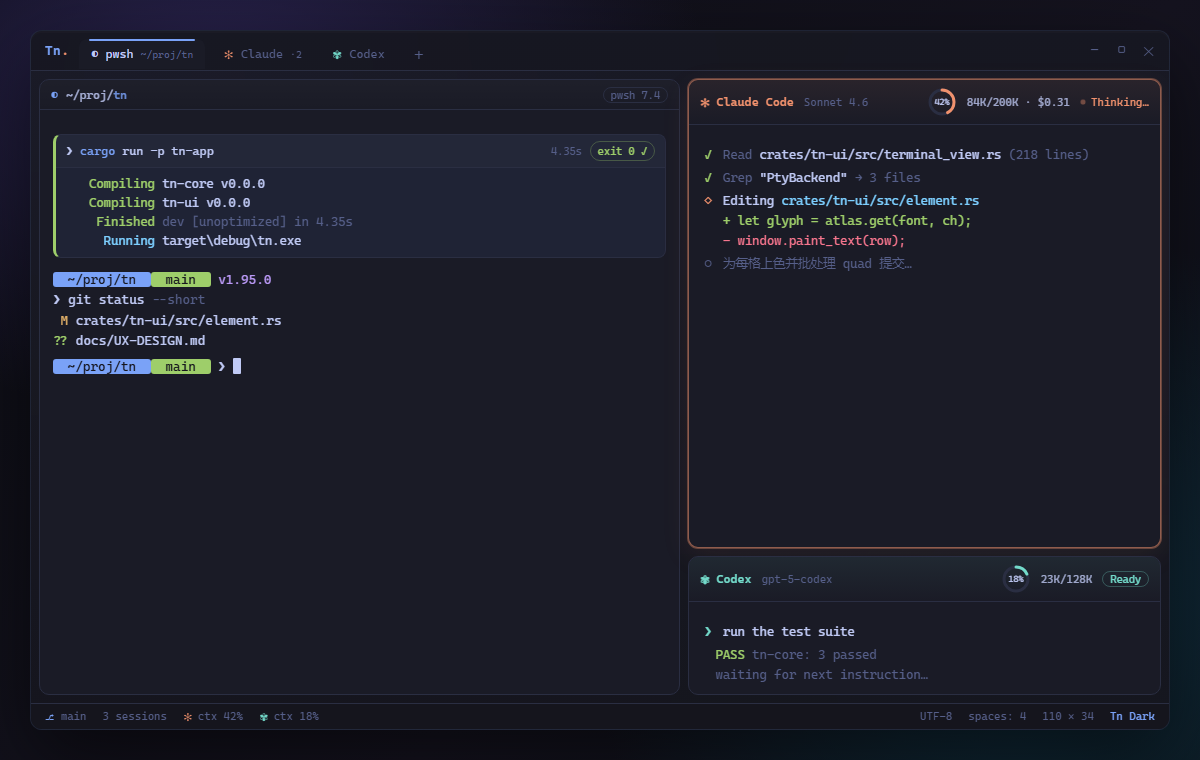
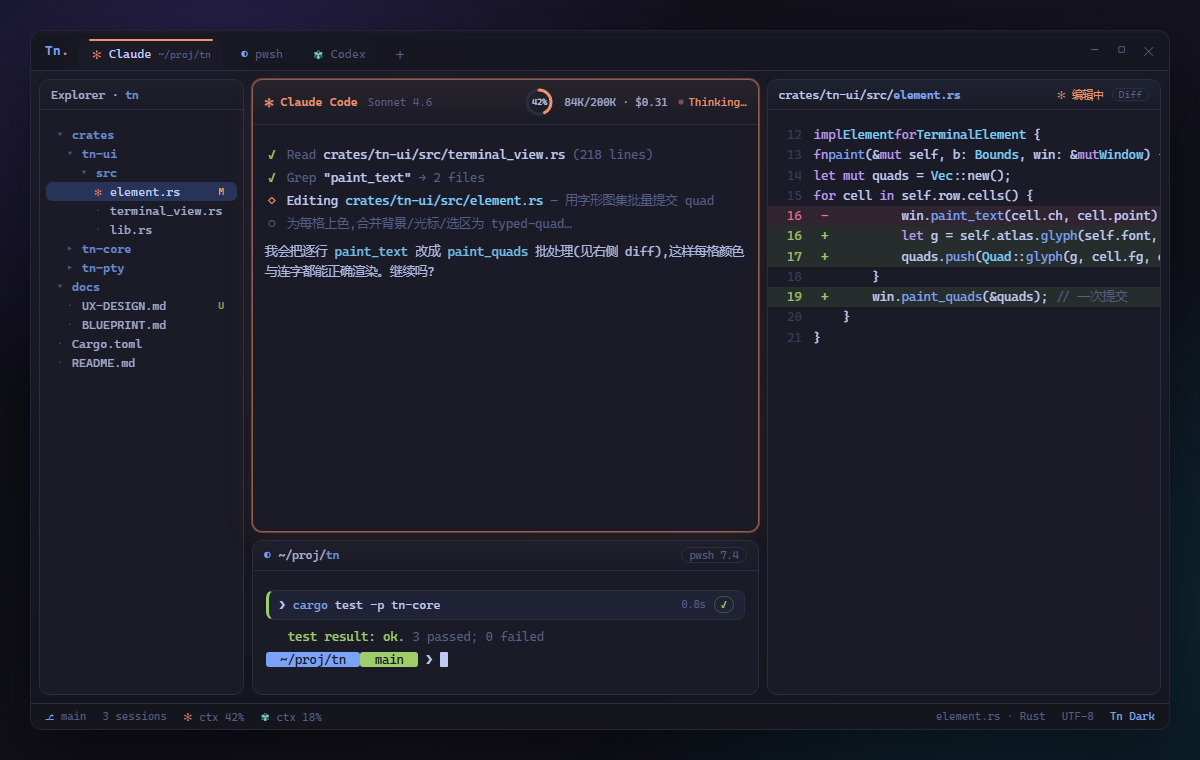
design: rebalance layout (smaller shell) + integrate file/diff viewer
Per feedback: the shell is rarely needed large, and we want to see files.
- New default vibe-coding layout: Explorer file tree | Claude (big) + small
  shell | Diff viewer. Shell shrunk to a bottom strip; AI + file viewing take
  the main stage.
- Generalize the pane model: PaneContent = Session | Viewer; Viewer = File | Diff
  (read-only, lightweight — not an editor). File tree + syntax-highlighted file
  viewer + diff viewer that follows what the agent is editing (sources: opt-in
  bridge / file snapshot / git). Open via tree, OSC8 link, or agent activity.
- Updated docs/UX-DESIGN.md (model, §2.1 viewer, default layout, mapping) and
  re-rendered design/mockup.{html,png}.

diff --git a/design/mockup.html b/design/mockup.html
@@ -6,195 +6,171 @@
 <style>
   /* ===== Tn Dark — default theme tokens (Tokyo Night tuned) ===== */
   :root {
-    --bg-0:#16161E;            /* window chrome / deepest */
-    --bg-1:#1A1B26;            /* pane background */
-    --bg-2:#1F2335;            /* panel / card / block */
-    --bg-3:#24283B;            /* raised */
-    --fg:#C0CAF5;             /* foreground */
-    --muted:#565F89;          /* comments / secondary */
-    --border:#2A2E42;
-    --accent:#7AA2F7;         /* brand blue */
-    --violet:#BB9AF7;
-    --green:#9ECE6A;
-    --red:#F7768E;
-    --yellow:#E0AF68;
-    --cyan:#7DCFFF;
-    --claude:#F0916D;         /* Claude accent (warm coral) */
-    --codex:#73DACA;          /* Codex accent (teal) */
+    --bg-0:#16161E; --bg-1:#1A1B26; --bg-2:#1F2335; --bg-3:#24283B;
+    --fg:#C0CAF5; --muted:#565F89; --border:#2A2E42;
+    --accent:#7AA2F7; --violet:#BB9AF7; --green:#9ECE6A; --red:#F7768E;
+    --yellow:#E0AF68; --cyan:#7DCFFF; --claude:#F0916D; --codex:#73DACA;
     --sel:#283457;
     --font: "Cascadia Code","JetBrains Mono","CaskaydiaCove Nerd Font",Consolas,"Microsoft YaHei UI",monospace;
   }
   * { box-sizing:border-box; margin:0; padding:0; }
   html,body { width:1200px; height:760px; }
   body {
-    font-family: var(--font);
-    /* simulated desktop behind the translucent window */
+    font-family: var(--font); color:var(--fg); -webkit-font-smoothing:antialiased;
     background:
       radial-gradient(900px 600px at 18% 12%, #2a2350 0%, transparent 55%),
       radial-gradient(800px 700px at 85% 80%, #103040 0%, transparent 55%),
       linear-gradient(135deg,#0c0d14,#15131f 60%,#0a1016);
     display:flex; align-items:center; justify-content:center;
-    -webkit-font-smoothing:antialiased; color:var(--fg);
   }
-
-  /* ===== window ===== */
   .win {
-    width:1140px; height:700px; border-radius:12px; overflow:hidden;
-    /* Mica-like translucency */
+    width:1140px; height:700px; border-radius:12px; overflow:hidden; display:flex; flex-direction:column;
     background:linear-gradient(180deg, rgba(26,27,38,0.92), rgba(22,22,30,0.96));
-    backdrop-filter:blur(40px);
-    border:1px solid rgba(122,162,247,0.10);
+    backdrop-filter:blur(40px); border:1px solid rgba(122,162,247,0.10);
     box-shadow:0 30px 80px rgba(0,0,0,0.55), 0 2px 0 rgba(255,255,255,0.04) inset;
-    display:flex; flex-direction:column;
   }
 
-  /* ===== title + tabs ===== */
+  /* title + tabs */
   .titlebar { height:40px; display:flex; align-items:center; background:rgba(22,22,30,0.6);
     border-bottom:1px solid var(--border); padding:0 8px 0 14px; gap:10px; }
   .logo { color:var(--accent); font-weight:700; letter-spacing:.5px; font-size:13px; }
   .logo .dot{color:var(--claude);}
   .tabs { display:flex; gap:6px; align-items:center; flex:1; height:100%; padding-top:7px; }
   .tab { display:flex; align-items:center; gap:7px; height:30px; padding:0 12px;
-    border-radius:8px 8px 0 0; font-size:12px; color:var(--muted); position:relative; cursor:default; }
-  .tab .ic{font-size:12px;}
+    border-radius:8px 8px 0 0; font-size:12px; color:var(--muted); position:relative; }
   .tab.active { background:var(--bg-1); color:var(--fg); }
   .tab.active::before{ content:""; position:absolute; left:10px; right:10px; top:0; height:2px; border-radius:2px; }
-  .tab.pwsh.active::before{ background:var(--accent); }
   .tab.claude .ic{color:var(--claude);} .tab.claude.active::before{background:var(--claude);}
-  .tab.codex .ic{color:var(--codex);}   .tab.codex.active::before{background:var(--codex);}
+  .tab.pwsh .ic{color:var(--accent);} .tab.pwsh.active::before{ background:var(--accent); }
+  .tab.codex .ic{color:var(--codex);} .tab.codex.active::before{background:var(--codex);}
   .tab .badge{font-size:10px;color:var(--muted);}
   .newtab{ color:var(--muted); font-size:16px; padding:0 8px; }
   .wctl{ display:flex; gap:14px; color:var(--muted); font-size:13px; padding-right:6px;}
   .wctl span{width:13px;text-align:center;}
 
-  /* ===== workspace: flexible tiling (n-ary) ===== */
+  /* workspace: flexible tiling */
   .work { flex:1; display:flex; gap:8px; padding:8px; min-height:0; }
   .col { display:flex; flex-direction:column; gap:8px; min-width:0; }
   .pane { background:var(--bg-1); border:1px solid var(--border); border-radius:10px;
     display:flex; flex-direction:column; min-height:0; overflow:hidden; }
   .pane.active { border-color:rgba(240,145,109,0.55);
     box-shadow:0 0 0 1px rgba(240,145,109,0.35), 0 8px 30px rgba(240,145,109,0.08); }
-  .left{ flex:1.35; }
-  .right{ flex:1; }
 
   /* pane header */
   .phead { height:30px; display:flex; align-items:center; gap:8px; padding:0 11px;
     font-size:11.5px; color:var(--muted); border-bottom:1px solid var(--border);
     background:linear-gradient(180deg, rgba(255,255,255,0.02), transparent); }
-  .phead .ic{ font-size:12px; }
-  .phead .cwd{ color:var(--fg); opacity:.85; }
-  .phead .cwd b{ color:var(--accent); font-weight:600; }
+  .phead .cwd{ color:var(--fg); opacity:.85; } .phead .cwd b{ color:var(--accent); font-weight:600; }
   .phead .sp{ flex:1; }
   .chip{ font-size:10.5px; padding:1px 7px; border-radius:999px; border:1px solid var(--border); color:var(--muted); }
-  .chip.ok{ color:var(--green); border-color:rgba(158,206,106,.3); }
 
   /* terminal body */
-  .body{ flex:1; padding:10px 13px; font-size:13px; line-height:1.55; overflow:hidden; }
+  .body{ flex:1; padding:9px 13px; font-size:12.5px; line-height:1.5; overflow:hidden; }
   .row{ white-space:pre; }
   .mut{color:var(--muted);} .grn{color:var(--green);} .blu{color:var(--accent);}
   .yel{color:var(--yellow);} .red{color:var(--red);} .vio{color:var(--violet);} .cya{color:var(--cyan);}
   .prompt .seg{ color:var(--bg-0); padding:0 7px; border-radius:3px; }
   .prompt .p1{ background:var(--accent);} .prompt .p2{ background:var(--green); }
-  .cursor{ display:inline-block; width:8px; height:16px; background:var(--fg); vertical-align:-3px; border-radius:1px;
+  .cursor{ display:inline-block; width:8px; height:15px; background:var(--fg); vertical-align:-3px; border-radius:1px;
     animation:blink 1.1s steps(1) infinite; }
   @keyframes blink{50%{opacity:0;}}
 
-  /* Warp-style block */
-  .block{ border:1px solid var(--border); border-left:3px solid var(--green); border-radius:8px;
-    background:var(--bg-2); margin:6px 0 12px; overflow:hidden; }
-  .block .bh{ display:flex; align-items:center; gap:8px; padding:6px 10px; font-size:12px;
-    background:rgba(255,255,255,0.02); border-bottom:1px solid var(--border); }
-  .block .bh .cmd{ color:var(--fg); } .block .bh .cmd .blu{color:var(--accent);}
-  .block .bh .sp{flex:1;}
-  .block .bh .meta{ font-size:10.5px; color:var(--muted); }
-  .block .bo{ padding:7px 11px; font-size:12.5px; line-height:1.5; }
-  .exit{ font-size:10.5px; color:var(--green); border:1px solid rgba(158,206,106,.3); border-radius:999px; padding:1px 7px; }
+  /* ===== file explorer (left) ===== */
+  .sidebar{ flex:0.62; }
+  .tree{ flex:1; padding:7px 6px; font-size:12px; overflow:hidden; }
+  .tnode{ display:flex; align-items:center; gap:6px; padding:2.5px 8px; border-radius:6px; color:var(--fg);
+    opacity:.82; white-space:nowrap; }
+  .tnode .tw{ width:12px; text-align:center; color:var(--muted); font-size:10px; }
+  .tnode.ind1{ padding-left:18px;} .tnode.ind2{ padding-left:32px;} .tnode.ind3{ padding-left:46px;}
+  .tnode.dir{ color:var(--accent); font-weight:500; }
+  .tnode.active{ background:var(--sel); color:var(--fg); opacity:1; }
+  .tnode.active .tw{ color:var(--claude); }
+  .tnode .tag{ margin-left:auto; font-size:9.5px; padding:0 5px; border-radius:4px; }
+  .tnode .tag.m{ color:var(--yellow); } .tnode .tag.u{ color:var(--green); }
 
-  /* agent status header */
+  /* ===== Warp block (small shell) ===== */
+  .block{ border:1px solid var(--border); border-left:3px solid var(--green); border-radius:8px;
+    background:var(--bg-2); margin:2px 0 8px; overflow:hidden; }
+  .block .bh{ display:flex; align-items:center; gap:8px; padding:5px 10px; font-size:12px; }
+  .block .bh .sp{flex:1;} .block .bh .meta{ font-size:10.5px; color:var(--muted); }
+  .exit{ font-size:10px; color:var(--green); border:1px solid rgba(158,206,106,.3); border-radius:999px; padding:0 6px; }
+
+  /* ===== agent status header + ring ===== */
   .agenthead{ display:flex; align-items:center; gap:10px; padding:7px 11px; border-bottom:1px solid var(--border);
     background:linear-gradient(180deg, rgba(240,145,109,0.07), transparent); }
-  .agenthead.codex{ background:linear-gradient(180deg, rgba(115,218,202,0.07), transparent); }
-  .agenthead .nm{ font-size:12px; font-weight:600; display:flex; align-items:center; gap:6px; }
-  .agenthead.claude .nm{ color:var(--claude);} .agenthead.codex .nm{ color:var(--codex);}
-  .agenthead .model{ font-size:11px; color:var(--muted); }
-  .agenthead .sp{flex:1;}
+  .agenthead .nm{ font-size:12px; font-weight:600; color:var(--claude); display:flex; align-items:center; gap:6px; }
+  .agenthead .model{ font-size:11px; color:var(--muted); } .agenthead .sp{flex:1;}
   .agenthead .cost{ font-size:11px; color:var(--fg); opacity:.8; }
   .agenthead .think{ font-size:11px; color:var(--claude); display:flex; align-items:center; gap:5px; }
   .dotpulse{ width:6px;height:6px;border-radius:50%;background:var(--claude); animation:pulse 1s ease-in-out infinite;}
   @keyframes pulse{0%,100%{opacity:.35; transform:scale(.8)}50%{opacity:1; transform:scale(1.15)}}
-
-  /* context ring */
   .ring{ position:relative; width:30px; height:30px; }
   .ring svg{ transform:rotate(-90deg); }
-  .ring .lbl{ position:absolute; inset:0; display:flex; align-items:center; justify-content:center;
-    font-size:8.5px; color:var(--fg); }
-  .agentbody{ flex:1; padding:9px 12px; font-size:12.5px; line-height:1.6; }
+  .ring .lbl{ position:absolute; inset:0; display:flex; align-items:center; justify-content:center; font-size:8.5px; color:var(--fg); }
+  .agentbody{ flex:1; padding:9px 12px; font-size:12.5px; line-height:1.6; overflow:hidden; }
   .tool{ display:flex; gap:8px; align-items:flex-start; margin:3px 0; }
-  .tool .gl{ width:14px; text-align:center; }
-  .tool .done{ color:var(--green);} .tool .run{ color:var(--claude);} .tool .pend{color:var(--muted);}
-  .tool .codexrun{color:var(--codex);}
-  .diff .add{color:var(--green);} .diff .del{color:var(--red);}
+  .tool .gl{ width:14px; text-align:center; } .tool .done{ color:var(--green);} .tool .run{ color:var(--claude);} .tool .pend{color:var(--muted);}
+
+  /* ===== diff / file viewer (right) ===== */
+  .viewer{ flex:1.2; }
+  .vh{ height:30px; display:flex; align-items:center; gap:8px; padding:0 11px; font-size:11.5px;
+    border-bottom:1px solid var(--border); background:linear-gradient(180deg, rgba(122,162,247,0.05), transparent); }
+  .vh .path{ color:var(--fg); } .vh .path b{ color:var(--accent); }
+  .vh .sp{flex:1;} .vh .by{ font-size:10.5px; color:var(--claude); display:flex; gap:5px; align-items:center; }
+  .vh .seg{ font-size:10px; color:var(--muted); border:1px solid var(--border); border-radius:6px; padding:0 6px; }
+  .code{ flex:1; padding:7px 0; font-size:12.5px; line-height:1.62; overflow:hidden; }
+  .cl{ display:flex; padding:0 12px 0 0; white-space:pre; }
+  .cl .ln{ width:34px; min-width:34px; color:var(--muted); opacity:.5; text-align:right; margin-right:12px; }
+  .cl.add{ background:rgba(158,206,106,0.10);} .cl.add .ln{color:var(--green); opacity:.9;}
+  .cl.del{ background:rgba(247,118,142,0.10);} .cl.del .ln{color:var(--red); opacity:.9;}
+  .kw{color:var(--violet);} .ty{color:var(--cyan);} .fn{color:var(--accent);} .str{color:var(--green);} .cm{color:var(--muted);}
 
   /* status bar */
   .status{ height:26px; display:flex; align-items:center; gap:16px; padding:0 14px; font-size:11px;
     color:var(--muted); background:rgba(22,22,30,0.7); border-top:1px solid var(--border); }
   .status .acc{ color:var(--accent);} .status .sp{flex:1;}
-  .status .mini{ display:flex; align-items:center; gap:5px; }
   .status .mini .c{ color:var(--claude);} .status .mini .x{ color:var(--codex);}
 </style>
 </head>
 <body>
   <div class="win">
-    <!-- title + tabs -->
     <div class="titlebar">
       <div class="logo">Tn<span class="dot">.</span></div>
       <div class="tabs">
-        <div class="tab pwsh active"><span class="ic">◐</span> pwsh <span class="badge">~/proj/tn</span></div>
-        <div class="tab claude"><span class="ic">✻</span> Claude <span class="badge">·2</span></div>
+        <div class="tab claude active"><span class="ic">✻</span> Claude <span class="badge">~/proj/tn</span></div>
+        <div class="tab pwsh"><span class="ic">◐</span> pwsh</div>
         <div class="tab codex"><span class="ic">✾</span> Codex</div>
         <div class="newtab">＋</div>
       </div>
       <div class="wctl"><span>—</span><span>▢</span><span>✕</span></div>
     </div>
 
-    <!-- workspace: left big pane + right column (Claude over Codex) -->
+    <!-- 3 columns: Explorer | (Claude big + small shell) | Diff viewer -->
     <div class="work">
-      <!-- LEFT: shell pane with a Warp block -->
-      <div class="pane left col">
-        <div class="phead">
-          <span class="ic" style="color:var(--accent)">◐</span>
-          <span class="cwd">~/proj/<b>tn</b></span>
-          <span class="sp"></span>
-          <span class="chip">pwsh 7.4</span>
-        </div>
-        <div class="body">
-          <div class="block">
-            <div class="bh">
-              <span class="cmd">❯ <span class="blu">cargo</span> run -p tn-app</span>
-              <span class="sp"></span>
-              <span class="meta">4.35s</span>
-              <span class="exit">exit 0 ✓</span>
-            </div>
-            <div class="bo">
-<div class="row"><span class="grn">   Compiling</span> tn-core v0.0.0</div>
-<div class="row"><span class="grn">   Compiling</span> tn-ui v0.0.0</div>
-<div class="row"><span class="grn">    Finished</span> <span class="mut">dev [unoptimized] in 4.35s</span></div>
-<div class="row"><span class="cya">     Running</span> target\debug\tn.exe</div>
-            </div>
-          </div>
-          <div class="row prompt"><span class="seg p1"> ~/proj/tn </span><span class="seg p2"> main </span> <span class="vio">v1.95.0</span></div>
-          <div class="row">❯ git status<span class="mut"> --short</span></div>
-          <div class="row"><span class="yel"> M</span> crates/tn-ui/src/element.rs</div>
-          <div class="row"><span class="grn">??</span> docs/UX-DESIGN.md</div>
-          <div class="row prompt" style="margin-top:6px"><span class="seg p1"> ~/proj/tn </span><span class="seg p2"> main </span> ❯ <span class="cursor"></span></div>
+      <!-- LEFT: file explorer -->
+      <div class="pane sidebar col">
+        <div class="phead"><span class="cwd"> Explorer · <b>tn</b></span></div>
+        <div class="tree">
+          <div class="tnode dir"><span class="tw">▾</span>crates</div>
+          <div class="tnode dir ind1"><span class="tw">▾</span>tn-ui</div>
+          <div class="tnode dir ind2"><span class="tw">▾</span>src</div>
+          <div class="tnode file ind3 active"><span class="tw">✻</span>element.rs<span class="tag m">M</span></div>
+          <div class="tnode file ind3"><span class="tw">·</span>terminal_view.rs</div>
+          <div class="tnode file ind3"><span class="tw">·</span>lib.rs</div>
+          <div class="tnode dir ind1"><span class="tw">▸</span>tn-core</div>
+          <div class="tnode dir ind1"><span class="tw">▸</span>tn-pty</div>
+          <div class="tnode dir"><span class="tw">▾</span>docs</div>
+          <div class="tnode file ind1"><span class="tw">·</span>UX-DESIGN.md<span class="tag u">U</span></div>
+          <div class="tnode file ind1"><span class="tw">·</span>BLUEPRINT.md</div>
+          <div class="tnode file"><span class="tw">·</span>Cargo.toml</div>
+          <div class="tnode file"><span class="tw">·</span>README.md</div>
         </div>
       </div>
 
-      <!-- RIGHT column -->
-      <div class="right col">
-        <!-- Claude pane (active / focused) -->
-        <div class="pane active col" style="flex:1.1">
-          <div class="agenthead claude">
+      <!-- MIDDLE: Claude (big) + small shell -->
+      <div class="col" style="flex:1.55">
+        <div class="pane active col" style="flex:2.5">
+          <div class="agenthead">
             <div class="nm"><span>✻</span> Claude Code</div>
             <div class="model">Sonnet 4.6</div>
             <span class="sp"></span>
@@ -211,51 +187,58 @@
           </div>
           <div class="agentbody">
             <div class="tool"><span class="gl done">✓</span><div><span class="mut">Read</span> crates/tn-ui/src/terminal_view.rs <span class="mut">(218 lines)</span></div></div>
-            <div class="tool"><span class="gl done">✓</span><div><span class="mut">Grep</span> "PtyBackend" <span class="mut">→ 3 files</span></div></div>
-            <div class="tool"><span class="gl run">◇</span><div>Editing <span class="cya">crates/tn-ui/src/element.rs</span>
-              <div class="diff"><span class="add">+   let glyph = atlas.get(font, ch);</span></div>
-              <div class="diff"><span class="del">-   window.paint_text(row);</span></div>
-            </div></div>
-            <div class="tool"><span class="gl pend">○</span><div class="mut">为每格上色并批处理 quad 提交…</div></div>
+            <div class="tool"><span class="gl done">✓</span><div><span class="mut">Grep</span> "paint_text" <span class="mut">→ 2 files</span></div></div>
+            <div class="tool"><span class="gl run">◇</span><div>Editing <span class="cya">crates/tn-ui/src/element.rs</span> <span class="mut">— 用字形图集批量提交 quad</span></div></div>
+            <div class="tool"><span class="gl pend">○</span><div class="mut">为每格上色,合并背景/光标/选区为 typed-quad…</div></div>
+            <div style="margin-top:8px; color:var(--fg); opacity:.9">我会把逐行 <span class="cya">paint_text</span> 改成 <span class="cya">paint_quads</span> 批处理(见右侧 diff),这样每格颜色与连字都能正确渲染。继续吗?</div>
           </div>
         </div>
 
-        <!-- Codex pane -->
-        <div class="pane col">
-          <div class="agenthead codex">
-            <div class="nm"><span>✾</span> Codex</div>
-            <div class="model">gpt-5-codex</div>
-            <span class="sp"></span>
-            <div class="ring" title="上下文 18%">
-              <svg width="30" height="30">
-                <circle cx="15" cy="15" r="12" stroke="#2A2E42" stroke-width="3" fill="none"/>
-                <circle cx="15" cy="15" r="12" stroke="var(--codex)" stroke-width="3" fill="none"
-                  stroke-linecap="round" stroke-dasharray="75.4" stroke-dashoffset="61.8"/>
-              </svg>
-              <div class="lbl">18%</div>
+        <!-- small shell -->
+        <div class="pane col" style="flex:0.85">
+          <div class="phead"><span style="color:var(--accent)">◐</span><span class="cwd">~/proj/<b>tn</b></span><span class="sp"></span><span class="chip">pwsh 7.4</span></div>
+          <div class="body">
+            <div class="block">
+              <div class="bh"><span>❯ <span class="blu">cargo</span> test -p tn-core</span><span class="sp"></span><span class="meta">0.8s</span><span class="exit">✓</span></div>
             </div>
-            <div class="cost">23K/128K</div>
-            <div class="chip ok" style="color:var(--codex);border-color:rgba(115,218,202,.3)">Ready</div>
+            <div class="row"><span class="grn">   test result: ok.</span> <span class="mut">3 passed; 0 failed</span></div>
+            <div class="row prompt" style="margin-top:4px"><span class="seg p1"> ~/proj/tn </span><span class="seg p2"> main </span> ❯ <span class="cursor"></span></div>
           </div>
-          <div class="agentbody">
-            <div class="tool"><span class="gl codexrun">❯</span><div>run the test suite</div></div>
-            <div class="row"><span class="grn">  PASS</span> <span class="mut">tn-core: 3 passed</span></div>
-            <div class="row mut">  waiting for next instruction…</div>
-          </div>
+        </div>
+      </div>
+
+      <!-- RIGHT: diff / file viewer -->
+      <div class="pane viewer col">
+        <div class="vh">
+          <span class="path">crates/tn-ui/src/<b>element.rs</b></span>
+          <span class="sp"></span>
+          <span class="by">✻ 编辑中</span>
+          <span class="seg">Diff</span>
+        </div>
+        <div class="code">
+          <div class="cl"><span class="ln">12</span><span class="kw">impl</span> <span class="ty">Element</span> <span class="kw">for</span> <span class="ty">TerminalElement</span> {</div>
+          <div class="cl"><span class="ln">13</span>    <span class="kw">fn</span> <span class="fn">paint</span>(&<span class="kw">mut</span> self, b: <span class="ty">Bounds</span>, win: &<span class="kw">mut</span> <span class="ty">Window</span>) {</div>
+          <div class="cl"><span class="ln">14</span>        <span class="kw">let mut</span> quads = <span class="ty">Vec</span>::new();</div>
+          <div class="cl"><span class="ln">15</span>        <span class="kw">for</span> cell <span class="kw">in</span> self.row.cells() {</div>
+          <div class="cl del"><span class="ln">16</span><span class="red"> -          </span>win.<span class="fn">paint_text</span>(cell.ch, cell.point);</div>
+          <div class="cl add"><span class="ln">16</span><span class="grn"> +          </span><span class="kw">let</span> g = self.atlas.<span class="fn">glyph</span>(self.font, cell.ch);</div>
+          <div class="cl add"><span class="ln">17</span><span class="grn"> +          </span>quads.<span class="fn">push</span>(<span class="ty">Quad</span>::<span class="fn">glyph</span>(g, cell.fg, cell.bg));</div>
+          <div class="cl"><span class="ln">18</span>        }</div>
+          <div class="cl add"><span class="ln">19</span><span class="grn"> +      </span>win.<span class="fn">paint_quads</span>(&quads); <span class="cm">// 一次提交</span></div>
+          <div class="cl"><span class="ln">20</span>    }</div>
+          <div class="cl"><span class="ln">21</span>}</div>
         </div>
       </div>
     </div>
 
-    <!-- status bar -->
     <div class="status">
       <span><span class="acc">⎇</span> main</span>
       <span>3 sessions</span>
       <span class="mini"><span class="c">✻</span> ctx 42%</span>
       <span class="mini"><span class="x">✾</span> ctx 18%</span>
       <span class="sp"></span>
+      <span>element.rs · Rust</span>
       <span>UTF-8</span>
-      <span>spaces: 4</span>
-      <span>110 × 34</span>
       <span class="acc">Tn Dark</span>
     </div>
   </div>